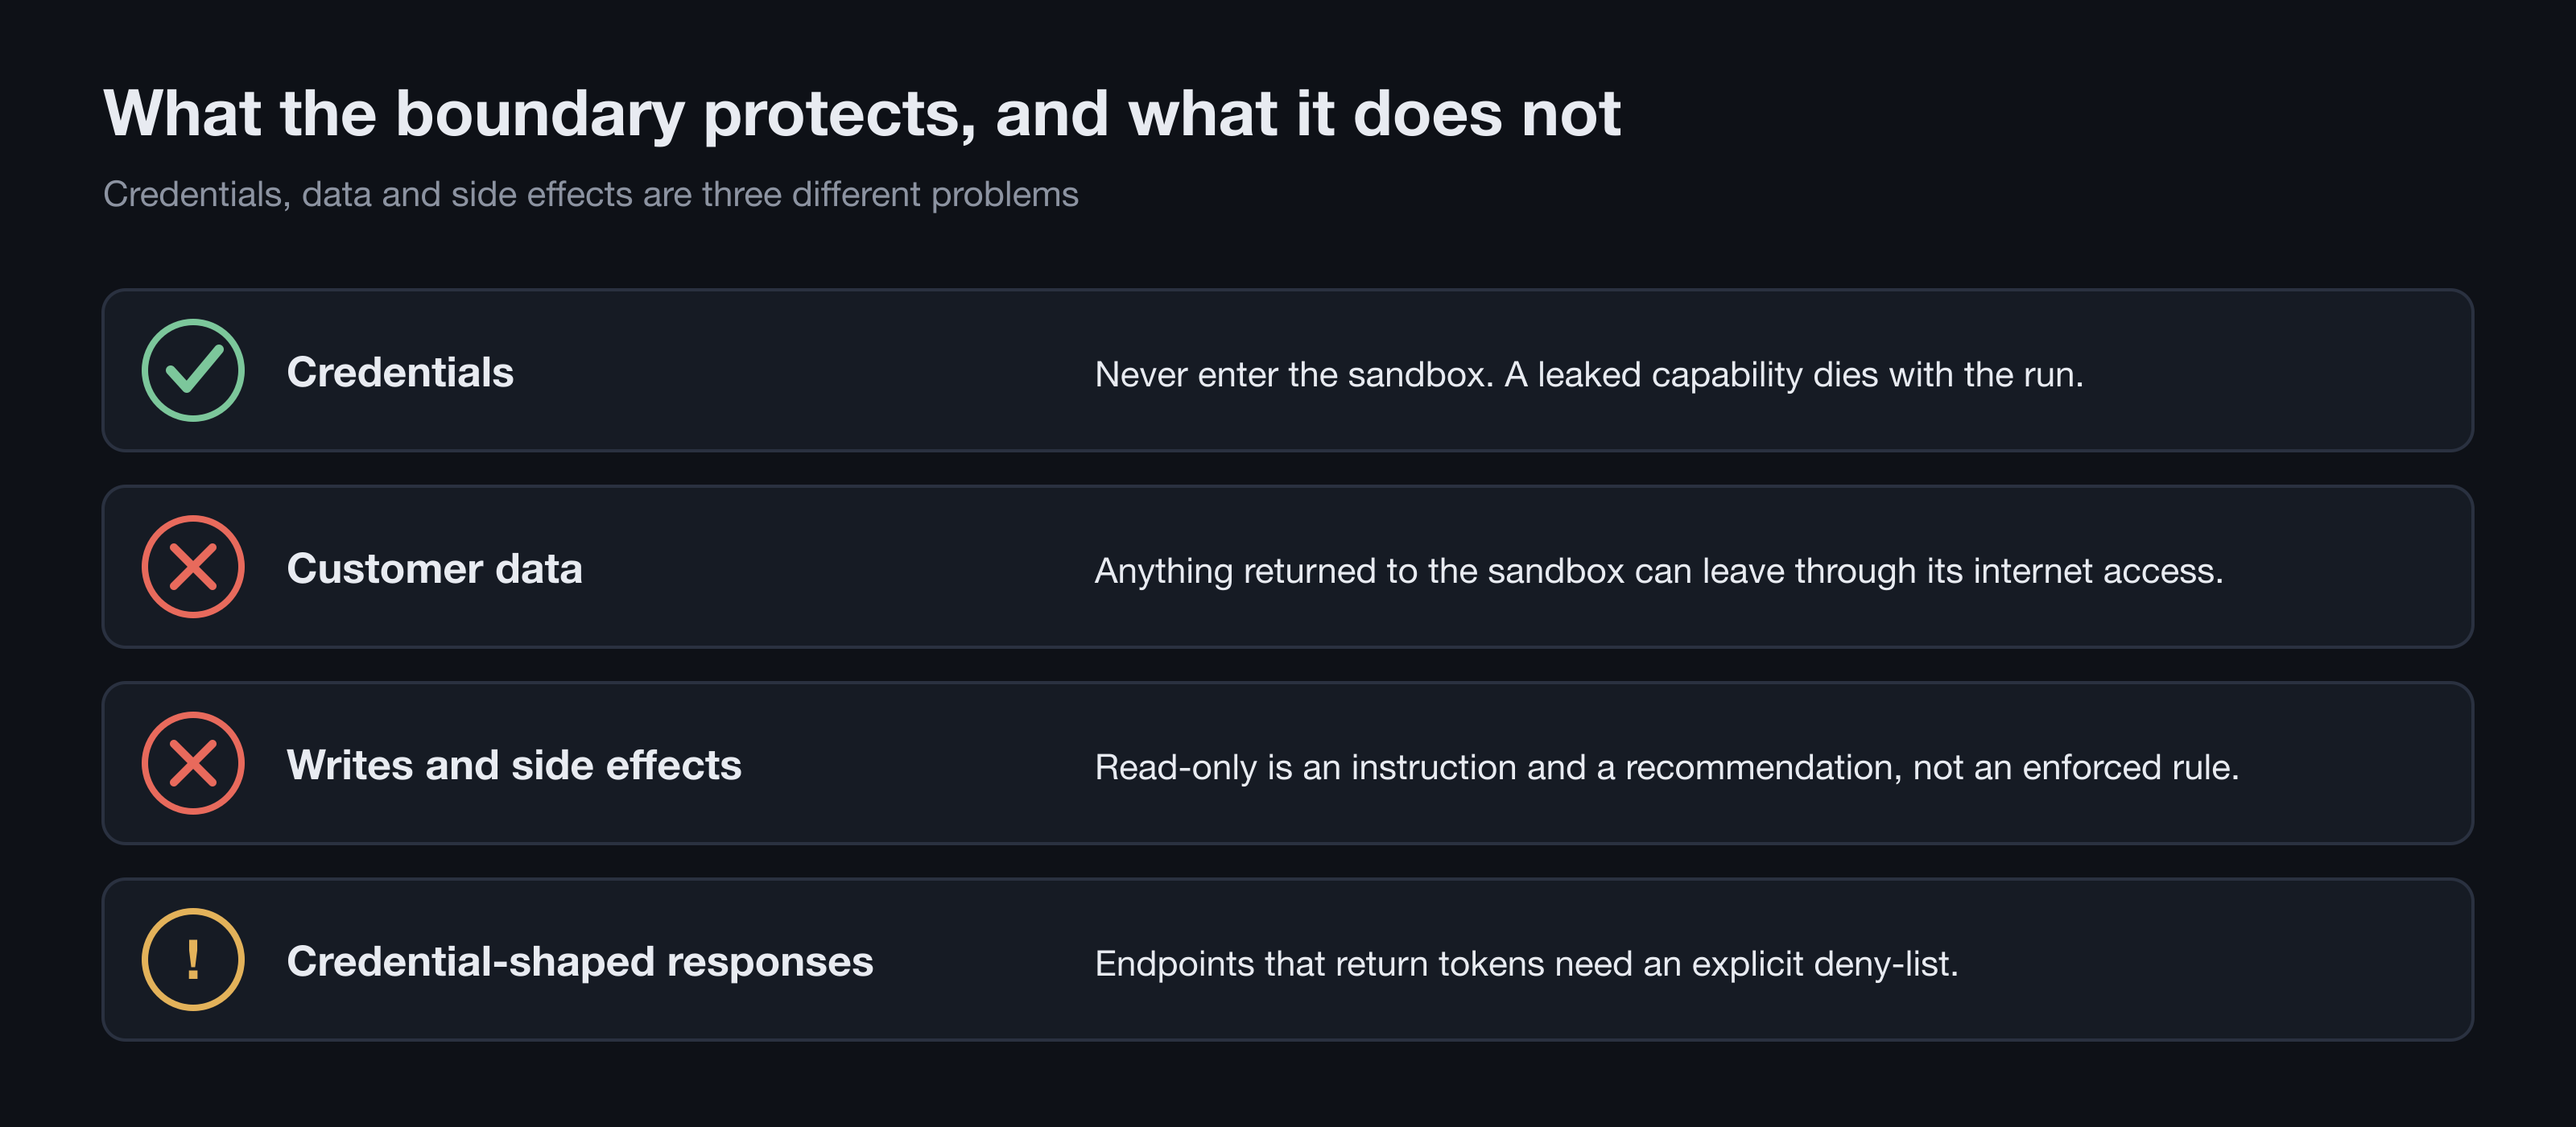
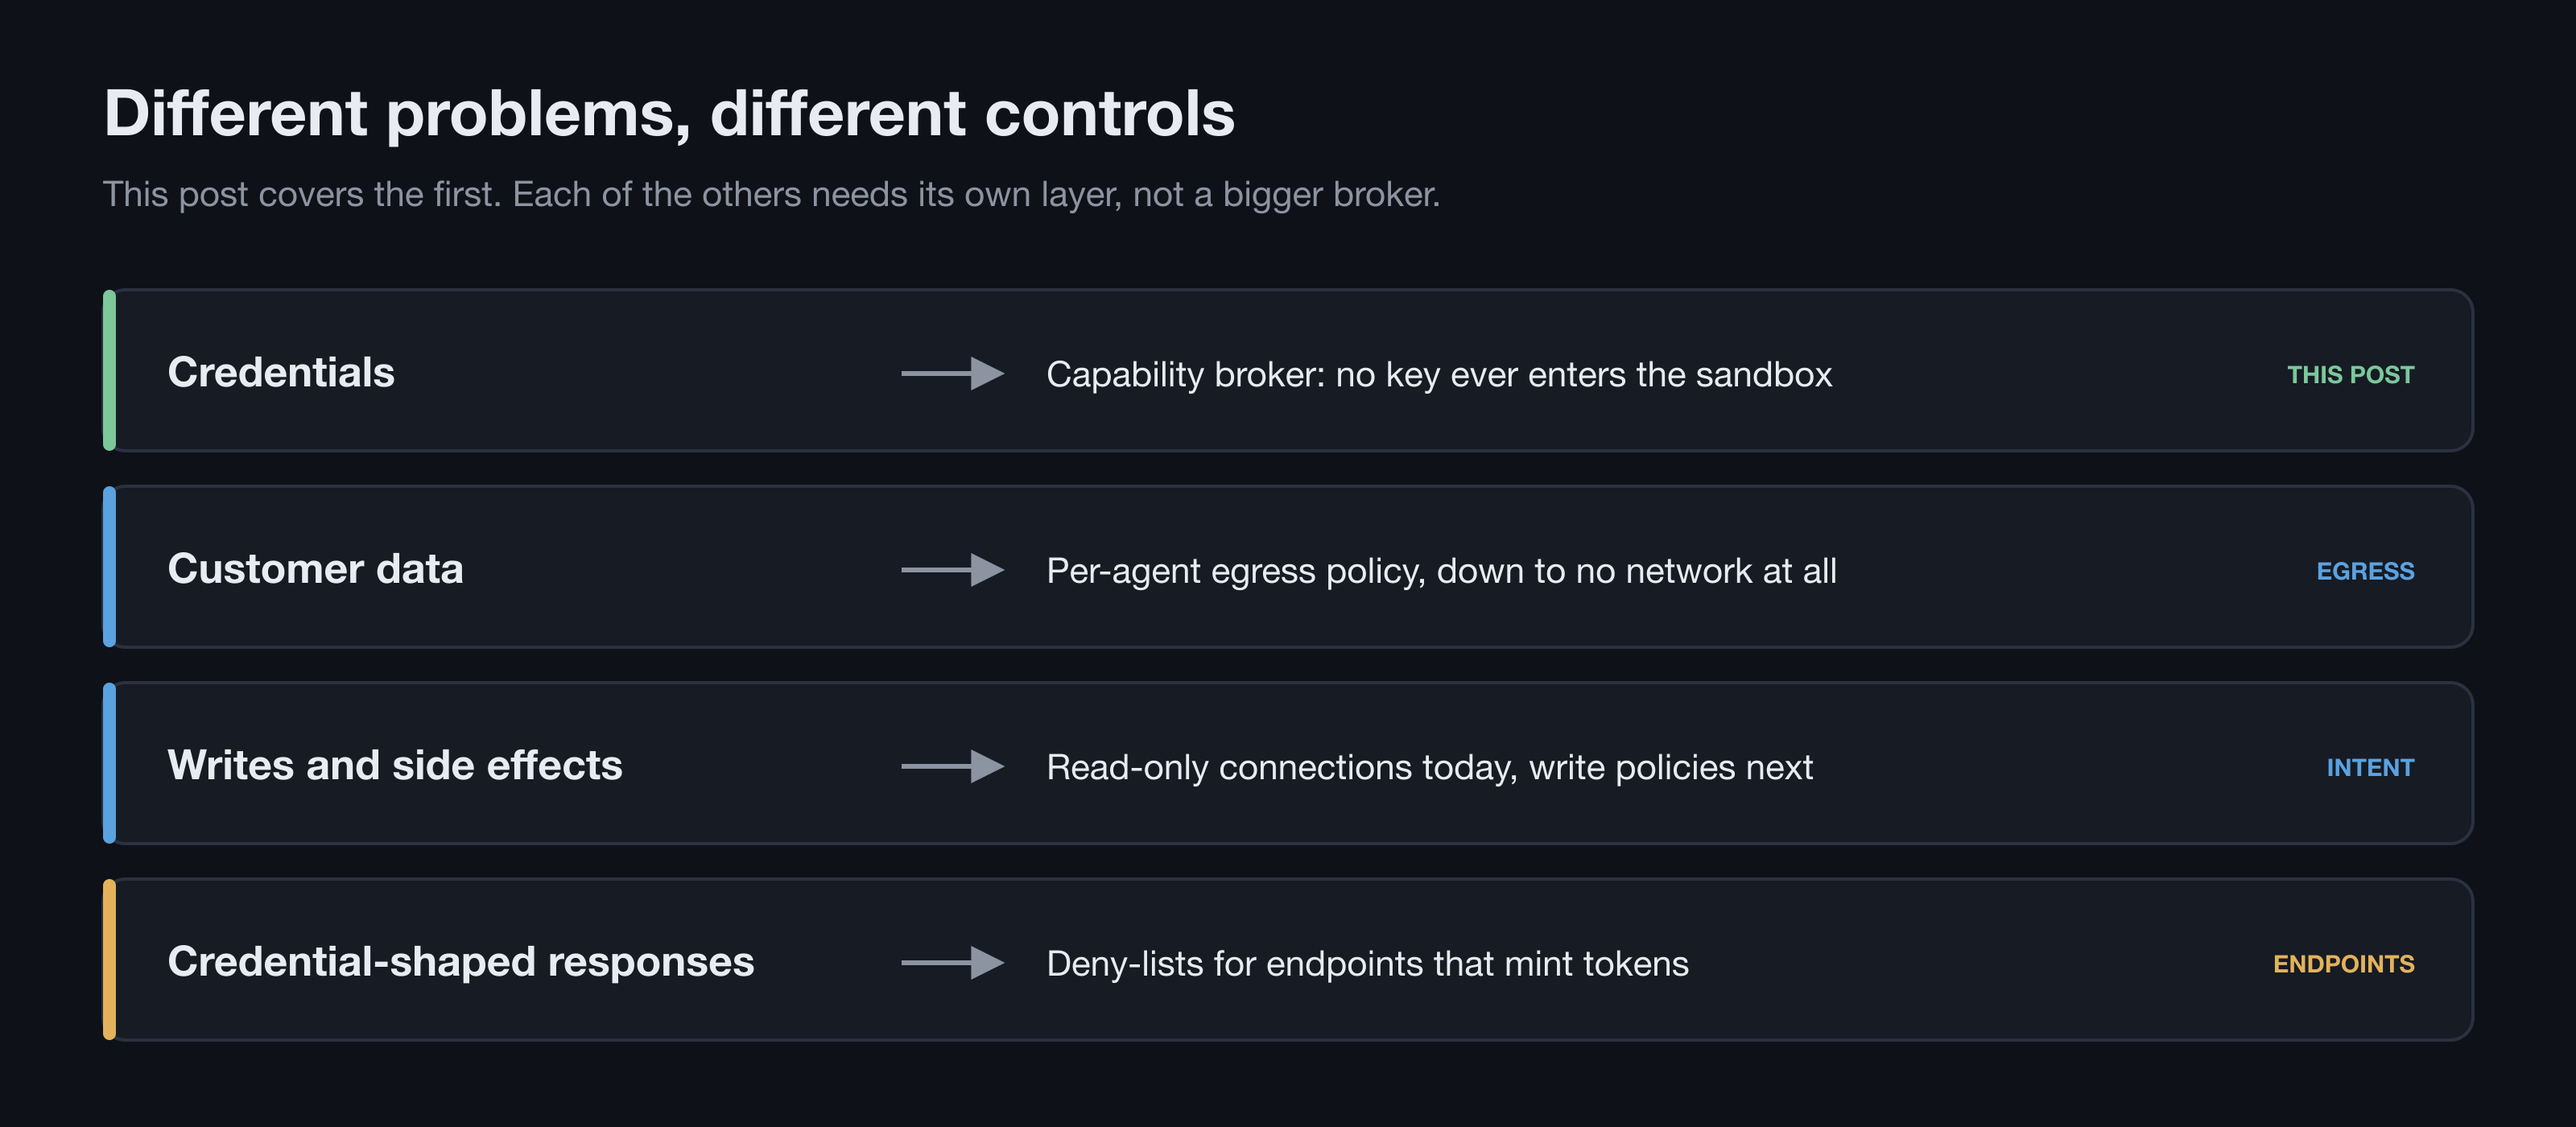
content: reframe capability post limits as scope and controls

diff --git a/src/content/blog/pt/20261009-capability-not-credential.pt.md b/src/content/blog/pt/20261009-capability-not-credential.pt.md
@@ -12,14 +12,14 @@ tags:
   - agent-infrastructure
   - code-mode
   - engineering
-description: "Nossos agentes de IA escrevem e executam código contra o GitHub, a AWS e outros sistemas dos clientes a partir de um sandbox com acesso à internet, e nada dentro desse sandbox consegue se autenticar em nenhum deles. A arquitetura por trás disso, os designs que deixamos de lado e o que ela deliberadamente não protege."
+description: "Nossos agentes de IA escrevem e executam código contra o GitHub, a AWS e outros sistemas dos clientes a partir de um sandbox com acesso à internet, e nada dentro desse sandbox consegue se autenticar em nenhum deles. A arquitetura por trás disso, os designs que deixamos de lado e onde ficam os seus limites."
 keywords: Hugo Nogueira, agentes de IA, segurança de agentes, code mode, isolamento de credenciais, capability, prompt injection, sandbox, egress, OAuth, IA corporativa, infraestrutura de agentes
 image: "/images/blog/capability-not-credential.jpg"
 ---
 
 Nos últimos meses, os agentes de IA que rodamos na Complyance passaram a escrever e executar código contra os sistemas dos próprios clientes: organizações no GitHub, contas AWS, provedores de identidade e repositórios de documentos. Eles fazem isso a partir de um sandbox que tem acesso à internet. Nada dentro desse sandbox consegue se autenticar em nenhum desses sistemas.
 
-Levamos um tempo para acertar essa combinação, e acho que o padrão por trás dela vai importar para qualquer pessoa que deixa agentes agirem sobre infraestrutura real. A ideia central cabe em uma frase: **o agente recebe uma capability, não uma credencial.** Este post explica o que isso significa na prática, os designs que deixamos de lado no caminho e o que a abordagem não protege, que é a parte que eu leria primeiro se estivesse avaliando o design de outra pessoa.
+Levamos um tempo para acertar essa combinação, e acho que o padrão por trás dela vai importar para qualquer pessoa que deixa agentes agirem sobre infraestrutura real. A ideia central cabe em uma frase: **o agente recebe uma capability, não uma credencial.** Este post explica o que isso significa na prática, os designs que deixamos de lado no caminho e onde ficam os seus limites, que é a parte que eu leria primeiro se estivesse avaliando o design de outra pessoa.
 
 ## Por que nossos agentes escrevem código
 
@@ -80,15 +80,15 @@ Um diagrama como o de cima é fácil de desenhar e fácil de errar nos detalhes.
 
 **A fronteira é física, além de lógica.** Regras de rede dão ao sandbox exatamente um caminho até a zona confiável, terminando em um terminador no host. A identidade de mutual TLS que o broker exige mora ali, fora de qualquer container, então um sandbox que encontre a porta do broker diretamente ainda não consegue completar o handshake. E quando algo falha, o sandbox recebe um erro fixo em vez da mensagem bruta do upstream, porque mensagens de erro de bibliotecas de autenticação costumam conter exatamente o que você estava tentando proteger.
 
-## O que isso não protege
+## Onde a fronteira termina
 
-![O que a fronteira protege: credenciais sim; dados do cliente, escritas e respostas com formato de credencial não](/images/blog/capability-not-credential/fig4-what-it-protects.png)
+![Problemas diferentes, controles diferentes: um broker de capabilities para credenciais, política de egress para dados do cliente, conexões somente leitura para escritas e deny-lists para respostas com formato de credencial](/images/blog/capability-not-credential/fig4-what-it-protects.png)
 
-Ela protege credenciais, não dados. Tudo o que o broker devolve cai em um sandbox com acesso à internet, então um agente comprometido por injection ainda poderia mandar uma lista de repositórios para algum lugar. O atacante sai com um retrato do momento, e não com as chaves para voltar depois. É uma redução real de risco, mas não é prevenção de vazamento de dados.
+Uma fronteira é mais fácil de confiar quando deixa claro o seu escopo. Esta foi construída para credenciais, e é estreita de propósito. Dados do cliente e efeitos colaterais são problemas diferentes, e na nossa experiência cada um é mais bem atendido por um controle próprio do que esticando o broker para cobrir tudo.
 
-Ela também não deixa o agente somente leitura. Não existe uma allow-list de métodos HTTP, em parte porque muitos provedores expõem leituras por endpoints de busca via `POST`. O comportamento somente leitura vem das instruções do agente e de os clientes conectarem credenciais somente leitura, o que recomendamos mas não conseguimos impor. Eu descreveria o design atual como seguro para credenciais, e não seguro para efeitos colaterais.
+Dados são uma questão de egress. Tudo o que o broker devolve chega ao sandbox, então o que o sandbox pode mandar para fora é decidido separadamente, por agente, e o nosso runtime consegue rodar um agente sem nenhuma rede de saída. Escritas são uma questão de intenção. Coletar evidências é um trabalho de leitura, então recomendamos conexões somente leitura e restringimos os agentes à leitura, e políticas explícitas de escrita são a próxima camada, à medida que os agentes passam de observar sistemas para corrigi-los.
 
-O limite mais sutil é que um broker de credenciais herda todos os endpoints que suas credenciais alcançam, inclusive aqueles cuja resposta já é uma credencial. A maioria das APIs grandes tem esse tipo de endpoint: troca de tokens, assunção de roles, cofres de segredos, rotas que autenticam como a própria integração em vez de como o cliente. O cliente HTTP dentro do broker também faz parte da superfície de ataque. Conveniências de SDK, como objetos de opções que podem sobrescrever a URL de destino, ou hooks de autenticação que trocam de identidade dependendo da rota, são inofensivas quando o seu código as chama e arriscadas quando os argumentos vêm de um agente. Se você for construir algo assim, faça duas perguntas cedo. O agente consegue ver o token? E existe alguma requisição cuja resposta seja um token? Bloqueie as rotas que emitem credenciais, e nunca passe input do agente direto para a configuração do cliente.
+O ponto mais sutil é que um broker de credenciais herda todos os endpoints que suas credenciais alcançam, inclusive aqueles cuja resposta já é uma credencial. A maioria das APIs grandes tem esse tipo de endpoint: troca de tokens, assunção de roles, cofres de segredos, rotas que autenticam como a própria integração em vez de como o cliente. O cliente HTTP dentro do broker também faz parte da superfície de ataque. Conveniências de SDK, como objetos de opções que podem sobrescrever a URL de destino, ou hooks de autenticação que trocam de identidade dependendo da rota, são inofensivas quando o seu código as chama e arriscadas quando os argumentos vêm de um agente. Se você for construir algo assim, faça duas perguntas cedo. O agente consegue ver o token? E existe alguma requisição cuja resposta seja um token? Bloqueie as rotas que emitem credenciais, e nunca passe input do agente direto para a configuração do cliente.
 
 ## Princípios
 
@@ -100,7 +100,7 @@ Tirando nossas especificidades, é isto que eu levaria para qualquer sistema em 
 4. **Congele os grants quando o run começa.** Mudanças podem restringir o acesso durante um run, nunca ampliar.
 5. **Mantenha os segredos de longa duração a dois passos do código escrito pelo modelo.**
 6. **Trate endpoints e bibliotecas cliente como parte da fronteira.**
-7. **Seja explícito sobre o que você não protege.** Credenciais, dados e efeitos colaterais são três problemas diferentes.
+7. **Seja explícito sobre o escopo.** Credenciais, dados e efeitos colaterais são problemas diferentes, e cada um merece um controle próprio.
 
 ## Perguntas em aberto
 

diff --git a/src/content/blog/20261009-capability-not-credential.md b/src/content/blog/20261009-capability-not-credential.md
@@ -12,14 +12,14 @@ tags:
   - agent-infrastructure
   - code-mode
   - engineering
-description: "Our AI agents write and run code against customers' GitHub, AWS and other systems from a sandbox with internet access, and nothing inside that sandbox can authenticate to any of them. The architecture behind it, the designs we set aside, and what it deliberately does not protect."
+description: "Our AI agents write and run code against customers' GitHub, AWS and other systems from a sandbox with internet access, and nothing inside that sandbox can authenticate to any of them. The architecture behind it, the designs we set aside, and where its boundaries are."
 keywords: Hugo Nogueira, AI agents, agent security, code mode, credential isolation, capability security, prompt injection, sandbox, egress, OAuth, enterprise AI, agent infrastructure
 image: "/images/blog/capability-not-credential.jpg"
 ---
 
 Over the past few months, the AI agents we run at Complyance have been writing and executing code against our customers' own systems: their GitHub organisations, AWS accounts, identity providers and document stores. They do this from a sandbox that can reach the internet. Nothing inside that sandbox can authenticate to any of those systems.
 
-That combination took us a while to get right, and I think the pattern behind it will matter to anyone who lets agents act on real infrastructure. The core idea fits in one sentence: **the agent receives a capability, not a credential.** This post explains what that means in practice, the designs we set aside along the way, and what the approach does not protect, which is the part I would read first if I were evaluating someone else's design.
+That combination took us a while to get right, and I think the pattern behind it will matter to anyone who lets agents act on real infrastructure. The core idea fits in one sentence: **the agent receives a capability, not a credential.** This post explains what that means in practice, the designs we set aside along the way, and where its boundaries are, which is the part I would read first if I were evaluating someone else's design.
 
 ## Why our agents write code
 
@@ -80,15 +80,15 @@ A diagram like the one above is easy to draw and easy to get subtly wrong. Four 
 
 **The boundary is physical as well as logical.** Network rules give the sandbox exactly one path to the trusted zone, ending at a terminator on the host. The mutual-TLS identity the broker requires lives there, outside every container, so a sandbox that finds the broker's port directly still cannot complete the handshake. And when something fails, the sandbox receives a fixed error instead of the raw upstream message, because error strings from auth libraries have a habit of containing exactly what you were trying to protect.
 
-## What this does not protect
+## Where the boundary ends
 
-![What the boundary protects: credentials yes; customer data, writes and credential-shaped responses no](/images/blog/capability-not-credential/fig4-what-it-protects.png)
+![Different problems, different controls: a capability broker for credentials, egress policy for customer data, read-only connections for writes, and endpoint deny-lists for credential-shaped responses](/images/blog/capability-not-credential/fig4-what-it-protects.png)
 
-It protects credentials, not data. Everything the broker returns lands in a sandbox that can reach the internet, so an injected agent could still send a repository list somewhere. The attacker leaves with a snapshot rather than the keys to come back for more. That is a real reduction in risk, but it is not data loss prevention.
+A boundary is easier to trust when it is clear about its scope. This one is built for credentials, and it is deliberately narrow. Customer data and side effects are different problems, and in our experience each is better served by its own control than by stretching the broker to cover everything.
 
-It also does not make the agent read-only. There is no allow-list of HTTP methods, partly because many providers expose reads through `POST` search endpoints. Read-only behaviour comes from the agent's instructions and from customers connecting read-only credentials, which we recommend but cannot enforce. I would describe the current design as credential-safe rather than side-effect-safe.
+Data is a question of egress. Everything the broker returns lands in the sandbox, so what the sandbox may send out is decided separately, per agent, and our runtime can run an agent with no outbound network at all. Writes are a question of intent. Evidence collection is a read workload, so we recommend read-only connections and scope agents to reading, and explicit write policies are the next layer as agents move from observing systems to fixing them.
 
-The subtlest limit is that a credential broker inherits every endpoint its credentials can reach, including the ones whose response is itself a credential. Most large APIs have them: token exchange, role assumption, secret stores, routes that authenticate as the integration rather than as the customer. The HTTP client inside the broker is part of the attack surface too. SDK conveniences such as option objects that can override the target URL, or auth hooks that switch identity depending on the route, are harmless when your own code calls them and risky when the arguments come from an agent. If you build something like this, ask two questions early. Can the agent see the token? And is there any request whose answer is a token? Deny the routes that mint credentials, and never pass agent input straight into client configuration.
+The subtlest point is that a credential broker inherits every endpoint its credentials can reach, including the ones whose response is itself a credential. Most large APIs have them: token exchange, role assumption, secret stores, routes that authenticate as the integration rather than as the customer. The HTTP client inside the broker is part of the attack surface too. SDK conveniences such as option objects that can override the target URL, or auth hooks that switch identity depending on the route, are harmless when your own code calls them and risky when the arguments come from an agent. If you build something like this, ask two questions early. Can the agent see the token? And is there any request whose answer is a token? Deny the routes that mint credentials, and never pass agent input straight into client configuration.
 
 ## Principles
 
@@ -100,7 +100,7 @@ Stripped of our specifics, this is what I would carry into any system where agen
 4. **Freeze grants when a run starts.** Changes may narrow access during a run, never widen it.
 5. **Keep long-lived secrets two steps away from model-written code.**
 6. **Treat endpoints and client libraries as part of the boundary.**
-7. **Be explicit about what you do not protect.** Credentials, data and side effects are three separate problems.
+7. **Be explicit about scope.** Credentials, data and side effects are different problems, and each deserves its own control.
 
 ## Open questions
 
